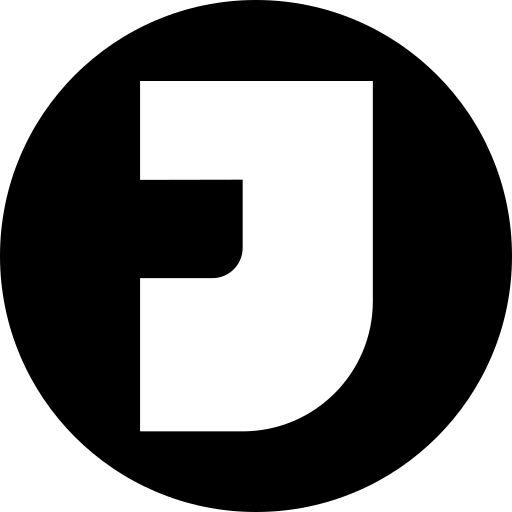
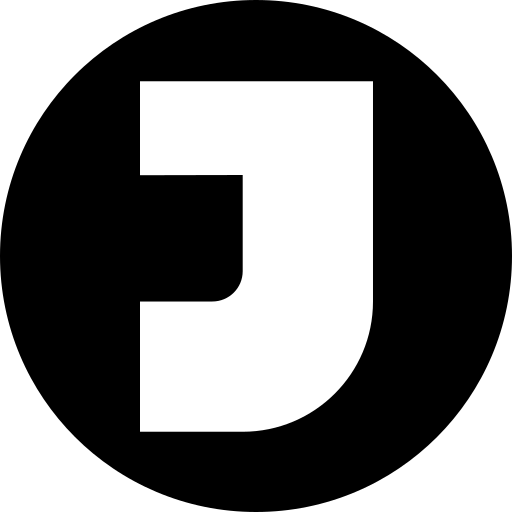
JAM 로고 3차 교체(티켓 20261028_0944): 새 비율 2610×865를 브랜드 원본·생성 이미지·마스크 CSS·배지 공유 이미지에 반영
- docs/assets/brand의 jam_logo.svg와 j·a·m.svg를 새 로고로 교체
- gen-brand-assets.mjs의 LOGO_H를 865로 고치고 renderLogo가 캔버스를 가득 채우도록 resize를 width·height 둘 다 지정
  (옛 가운데 맞춤으로 오른쪽 1px이 비던 문제도 사라진다). 규격 테스트도 2610×865로 수정
- 로고 PNG·icon·apple-icon·favicon 7개를 스크립트로 다시 생성
- .jam-logo-mark의 aspect-ratio를 2610 / 865로 수정
- 배지 공유 이미지의 LOGO_WIDTH를 72×2610/865로 고쳐 로고가 가로로 눌리지 않게 함

Changed region(s): [[0.25, 0.5, 0.5, 0.5938], [0.2812, 0.3438, 0.4688, 0.375]]

diff --git a/jam-web/src/app/globals.css b/jam-web/src/app/globals.css
@@ -479,14 +479,14 @@ select option {
  * public/jam-logo-white.png는 흰색 한 색이라 크림 바탕(--background) 위에서 1.05:1로 사라진다.
  * 알파 채널만 마스크로 쓰고 색은 --foreground 토큰으로 칠한다(마스크 + 토큰 색).
  * `filter: invert()`·`brightness(0)`으로 검게 만들면 순수 #000이 되어 --foreground(#171717)와 어긋나고
- * 상태마다 깨지므로 쓰지 않는다. 크기는 호출부가 높이만 정한다(가로세로비 2610:925).
+ * 상태마다 깨지므로 쓰지 않는다. 크기는 호출부가 높이만 정한다(가로세로비 2610:865, 티켓 20261028_0944).
  *
  * `@layer components`에 두는 이유: 레이어 밖에 두면 Tailwind 유틸리티(`block`·`inline-block`·`h-*`)보다
  * 우선해 호출부가 display를 못 바꾼다.
  * ────────────────────────────────────────────────────────────────────────────── */
 @layer components {
   .jam-logo-mark {
-    aspect-ratio: 2610 / 925;
+    aspect-ratio: 2610 / 865;
     background-color: var(--foreground);
     -webkit-mask: url('/jam-logo-white.png') center / contain no-repeat;
     mask: url('/jam-logo-white.png') center / contain no-repeat;

diff --git a/jam-web/src/app/(main)/badges/[id]/buildBadgeShareBlob.ts b/jam-web/src/app/(main)/badges/[id]/buildBadgeShareBlob.ts
@@ -32,7 +32,8 @@ const BLOCK_GAP = 63
 const ROW_BLOCK_HEIGHT = 85.5636
 /** 라벨 텍스트 시작 y가 값 텍스트 시작 y보다 아래로 내려간 오프셋(Figma "mt-61.56") */
 const LABEL_OFFSET_Y = 61.56
-const LOGO_WIDTH = 174.2336
+// 174.2336은 옛 로고의 Figma 칸 폭이다. 새 로고(2610:865) 비율이 눌리지 않도록 높이 72 기준으로 폭만 고쳤다(72×2610/865).
+const LOGO_WIDTH = 217.2486
 const LOGO_HEIGHT = 72
 const VALUE_FONT_SIZE = 50.858
 const LABEL_FONT_SIZE = 19.824
